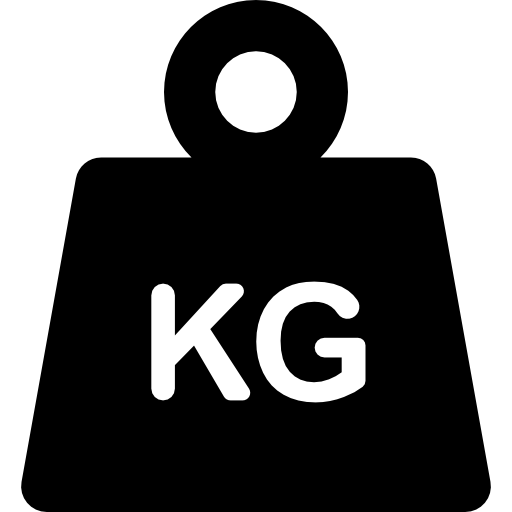
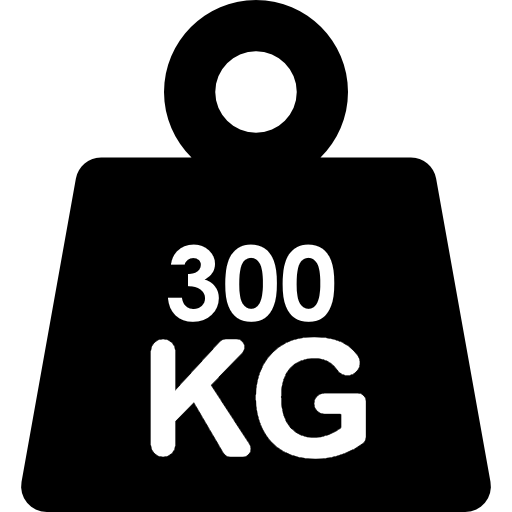
présentation

Changed region(s): [[0.2812, 0.4688, 0.7188, 0.9062]]

diff --git a/ConcreteCS/MainWindow.xaml b/ConcreteCS/MainWindow.xaml
@@ -92,7 +92,7 @@
                                            Text="Rapport de réduction des engrenages" Height="15" Width="200"/>
                                 <TextBox x:Name="GearRatioInput" Grid.Row="3" Grid.Column="1" Width="150" Text="1"
                                            VerticalAlignment="Center" HorizontalAlignment="Left" Height="17"/>
-                                
+
                                 <!-- Bouton pour démarrer la simulation -->
                                 <Button Grid.Row="4" Grid.Column="0" Content="Calculer la force nécessaire"
                                            Click="OnCalculateDemuClick" Margin="0,6,0,5" HorizontalAlignment="Left" Width="146"/>
@@ -164,7 +164,7 @@
                             <TextBox x:Name="AgeInput" Grid.Row="5" Grid.Column="1" Width="150" VerticalAlignment="Center" HorizontalAlignment="Left" Height="18"/>
                         </StackPanel>
 
-                        
+
 
                         <!-- Affichage des résultats -->
                         <StackPanel Grid.Column="1" HorizontalAlignment="Left">
@@ -225,7 +225,7 @@
             <TabItem Header="Animation" Margin="0,0,-2,0" Height="20" VerticalAlignment="Center">
                 <Grid>
                     <!-- Curseur pour ajuster le nombre de poulies -->
-                    <Slider x:Name="SliderPoulies" Minimum="1" Maximum="5" Value="1" TickFrequency="1" IsSnapToTickEnabled="True" HorizontalAlignment="Left" VerticalAlignment="Top" Width="200" Margin="10,10,0,0"/>
+                    <Slider x:Name="SliderPoulies" Minimum="1" Maximum="5" Value="1" TickFrequency="1" IsSnapToTickEnabled="True" HorizontalAlignment="Left" VerticalAlignment="Top" Width="139" Margin="10,10,0,0"/>
                     <Label Content="Nombre de poulies :" HorizontalAlignment="Left" VerticalAlignment="Top" Margin="10,40,0,0"/>
                     <Label x:Name="LabelNbPoulies" Content="1" HorizontalAlignment="Left" VerticalAlignment="Top" Margin="120,40,0,0"/>
 
@@ -234,19 +234,131 @@
                     <Label x:Name="LabelForce" Content="0 N" HorizontalAlignment="Left" VerticalAlignment="Top" Margin="120,80,0,0"/>
 
                     <!-- Canvas pour représenter le système de levage -->
-                    <Canvas x:Name="LevageCanvas" Width="600" Height="400" Background="LightGray" HorizontalAlignment="Right" Margin="0,10,10,0">
+                    <!-- 1 poulie -->
+                    <Grid x:Name="PulleyScene1" Width="430" Background="LightGray" HorizontalAlignment="Left" Margin="154,0,0,135" Visibility="Visible">
                         <!-- Image pour la poulie -->
-                        <Image x:Name="Poulie" Width="60" Height="60" Source="poulie.png" Canvas.Left="270" Canvas.Top="50"/>
+                        <Image x:Name="Poulie11" Width="60" Height="60" Source="poulie.png" Canvas.Left="270" Canvas.Top="50" Margin="10,0,360,201"/>
 
                         <!-- Image pour la charge -->
-                        <Image x:Name="Charge" Width="50" Height="50" Source="charge.png" Canvas.Left="275" Canvas.Top="250"/>
+                        <Image x:Name="Charge1" Width="50" Height="50" Source="charge.png" Canvas.Left="275" Canvas.Top="250" Margin="39,211,341,0"/>
 
                         <!-- Ligne représentant la corde -->
-                        <Line x:Name="Corde" X1="305" Y1="250" X2="305" Y2="50" Stroke="Black" StrokeThickness="3"/>
-                    </Canvas>
+                        <Line x:Name="Corde11" X1="0" Y1="261" X2="0" Y2="30" Stroke="Black" StrokeThickness="3" Margin="16,0,394,0"/>
+                        <Line x:Name="CordeLast1" X1="0" Y1="215" X2="0" Y2="30" Stroke="Black" StrokeThickness="3" Margin="64,0,346,0"/>
+                    </Grid>
+
+                    <!-- 2 poulies -->
+                    <Grid x:Name="PulleyScene2" Width="430" Background="LightGray" HorizontalAlignment="Left" Margin="154,0,0,135" Visibility="Collapsed">
+                        <Image x:Name="Poulie21" Width="60" Height="60" Source="poulie.png" Canvas.Left="270" Canvas.Top="50" Margin="10,0,360,201"/>
+                        <Image x:Name="Poulie22" Width="60" Height="60" Source="poulie.png" Margin="58,154,312,47" RenderTransformOrigin="0.5,0.5">
+                            <Image.RenderTransform>
+                                <TransformGroup>
+                                    <ScaleTransform/>
+                                    <SkewTransform/>
+                                    <RotateTransform Angle="180"/>
+                                    <TranslateTransform/>
+                                </TransformGroup>
+                            </Image.RenderTransform>
+                        </Image>
+                        <Image x:Name="Charge2" Width="50" Height="50" Source="charge.png" Canvas.Left="275" Canvas.Top="250" Margin="63,211,317,0"/>
+
+                        <Line x:Name="Corde2" X1="0" Y1="261" X2="0" Y2="30" Stroke="Black" StrokeThickness="3" Margin="18,0,392,0"/>
+                        <Line x:Name="CordeLast21" X1="0" Y1="180" X2="0" Y2="30" Stroke="Black" StrokeThickness="3" Margin="64,0,346,0"/>
+                        <Line x:Name="CordeLast22" X1="0" Y1="180" X2="0" Y2="0" Stroke="Black" StrokeThickness="3" Margin="113,0,297,0"/>
+                    </Grid>
+
+                    <!-- 3 poulies -->
+                    <Grid x:Name="PulleyScene3" Width="430" Background="LightGray" HorizontalAlignment="Left" Margin="154,0,0,135" Visibility="Collapsed">
+                        <Image x:Name="Poulie31" Width="60" Height="60" Source="poulie.png" Canvas.Left="270" Canvas.Top="50" Margin="10,0,360,201"/>
+                        <Image x:Name="Poulie32" Width="60" Height="60" Source="poulie.png" Margin="56,201,314,0" RenderTransformOrigin="0.5,0.5">
+                            <Image.RenderTransform>
+                                <TransformGroup>
+                                    <ScaleTransform/>
+                                    <SkewTransform/>
+                                    <RotateTransform Angle="180"/>
+                                    <TranslateTransform/>
+                                </TransformGroup>
+                            </Image.RenderTransform>
+                        </Image>
+                        <Image x:Name="Poulie33" Width="60" Height="60" Source="poulie.png" Canvas.Left="270" Canvas.Top="50" Margin="103,0,267,201"/>
+                        <Image x:Name="Charge3" Width="50" Height="50" Source="charge.png" Canvas.Left="275" Canvas.Top="250" Margin="132,211,248,0"/>
+
+                        <Line x:Name="Corde31" X1="0" Y1="261" X2="0" Y2="30" Stroke="Black" StrokeThickness="3" Margin="17,0,393,0"/>
+                        <Line x:Name="Corde32" X1="0" Y1="230" X2="0" Y2="30" Stroke="Black" StrokeThickness="3" Margin="63,0,347,0"/>
+                        <Line x:Name="Corde33" X1="0" Y1="230" X2="0" Y2="30" Stroke="Black" StrokeThickness="3" Margin="110,0,300,0"/>
+                        <Line x:Name="CordeLast3" X1="0" Y1="215" X2="0" Y2="30" Stroke="Black" StrokeThickness="3" Margin="157,0,253,0"/>
+                    </Grid>
+
+                    <!-- 4 poulies -->
+                    <Grid x:Name="PulleyScene4" Width="430" Background="LightGray" HorizontalAlignment="Left" Margin="154,0,0,135" Visibility="Collapsed">
+                        <Image x:Name="Poulie41" Width="60" Height="60" Source="poulie.png" Canvas.Left="270" Canvas.Top="50" Margin="10,0,360,201"/>
+                        <Image x:Name="Poulie42" Width="60" Height="60" Source="poulie.png" Margin="56,201,314,0" RenderTransformOrigin="0.5,0.5">
+                            <Image.RenderTransform>
+                                <TransformGroup>
+                                    <ScaleTransform/>
+                                    <SkewTransform/>
+                                    <RotateTransform Angle="180"/>
+                                    <TranslateTransform/>
+                                </TransformGroup>
+                            </Image.RenderTransform>
+                        </Image>
+                        <Image x:Name="Poulie43" Width="60" Height="60" Source="poulie.png" Canvas.Left="270" Canvas.Top="50" Margin="103,0,267,201"/>
+                        <Image x:Name="Poulie44" Width="60" Height="60" Source="poulie.png" Margin="149,154,221,47" RenderTransformOrigin="0.5,0.5">
+                            <Image.RenderTransform>
+                                <TransformGroup>
+                                    <ScaleTransform/>
+                                    <SkewTransform/>
+                                    <RotateTransform Angle="180"/>
+                                    <TranslateTransform/>
+                                </TransformGroup>
+                            </Image.RenderTransform>
+                        </Image>
+                        <Image x:Name="Charge4" Width="50" Height="50" Source="charge.png" Canvas.Left="275" Canvas.Top="250" Margin="154,211,226,0"/>
+
+                        <Line x:Name="Corde41" X1="0" Y1="261" X2="0" Y2="30" Stroke="Black" StrokeThickness="3" Margin="17,0,393,0"/>
+                        <Line x:Name="Corde42" X1="0" Y1="230" X2="0" Y2="30" Stroke="Black" StrokeThickness="3" Margin="63,0,347,0"/>
+                        <Line x:Name="Corde43" X1="0" Y1="230" X2="0" Y2="30" Stroke="Black" StrokeThickness="3" Margin="110,0,300,0"/>
+                        <Line x:Name="CordeLast41" X1="0" Y1="180" X2="0" Y2="30" Stroke="Black" StrokeThickness="3" Margin="156,0,254,0"/>
+                        <Line x:Name="CordeLast42" X1="0" Y1="180" X2="0" Y2="0" Stroke="Black" StrokeThickness="3" Margin="203,0,207,0"/>
+                    </Grid>
+
+                    <!-- 5 poulies -->
+                    <Grid x:Name="PulleyScene5" Width="430" Background="LightGray" HorizontalAlignment="Left" Margin="154,0,0,135" Visibility="Collapsed">
+                        <Image x:Name="Poulie51" Width="60" Height="60" Source="poulie.png" Canvas.Left="270" Canvas.Top="50" Margin="10,0,360,201"/>
+                        <Image x:Name="Poulie52" Width="60" Height="60" Source="poulie.png" Margin="56,201,314,0" RenderTransformOrigin="0.5,0.5">
+                            <Image.RenderTransform>
+                                <TransformGroup>
+                                    <ScaleTransform/>
+                                    <SkewTransform/>
+                                    <RotateTransform Angle="180"/>
+                                    <TranslateTransform/>
+                                </TransformGroup>
+                            </Image.RenderTransform>
+                        </Image>
+                        <Image x:Name="Poulie53" Width="60" Height="60" Source="poulie.png" Canvas.Left="270" Canvas.Top="50" Margin="103,0,267,201"/>
+                        <Image x:Name="Poulie54" Width="60" Height="60" Source="poulie.png" Margin="149,201,221,0" RenderTransformOrigin="0.5,0.5">
+                            <Image.RenderTransform>
+                                <TransformGroup>
+                                    <ScaleTransform/>
+                                    <SkewTransform/>
+                                    <RotateTransform Angle="180"/>
+                                    <TranslateTransform/>
+                                </TransformGroup>
+                            </Image.RenderTransform>
+                        </Image>
+                        <Image x:Name="Poulie55" Width="60" Height="60" Source="poulie.png" Canvas.Left="270" Canvas.Top="50" Margin="196,0,174,201"/>
+                        <Image x:Name="Charge5" Width="50" Height="50" Source="charge.png" Canvas.Left="275" Canvas.Top="250" Margin="225,211,155,0"/>
+
+                        <Line x:Name="Corde51" X1="0" Y1="261" X2="0" Y2="30" Stroke="Black" StrokeThickness="3" Margin="17,0,393,0"/>
+                        <Line x:Name="Corde52" X1="0" Y1="230" X2="0" Y2="30" Stroke="Black" StrokeThickness="3" Margin="63,0,347,0"/>
+                        <Line x:Name="Corde53" X1="0" Y1="230" X2="0" Y2="30" Stroke="Black" StrokeThickness="3" Margin="110,0,300,0"/>
+                        <Line x:Name="Corde54" X1="0" Y1="230" X2="0" Y2="30" Stroke="Black" StrokeThickness="3" Margin="156,0,254,0"/>
+                        <Line x:Name="Corde55" X1="0" Y1="230" X2="0" Y2="30" Stroke="Black" StrokeThickness="3" Margin="203,0,207,0"/>
+                        <Line x:Name="CordeLast5" X1="0" Y1="215" X2="0" Y2="30" Stroke="Black" StrokeThickness="3" Margin="250,0,160,0"/>
+                    </Grid>
 
                     <!-- Bouton pour démarrer la simulation -->
-                    <Button Content="Simuler" HorizontalAlignment="Left" VerticalAlignment="Top" Margin="10,120,0,0" Width="100" Click="Simuler_Click"/>
+                    <Button Content="Simuler" HorizontalAlignment="Left" VerticalAlignment="Top" Margin="28,111,0,0" Width="100" Click="Simuler_Click"/>
                 </Grid>
             </TabItem>
         </TabControl>

diff --git a/ConcreteCS/MainWindow.xaml.cs b/ConcreteCS/MainWindow.xaml.cs
@@ -194,7 +194,7 @@ namespace ConcreteCS
                         }
                     }
 
-                   else if (genre == "Femme")
+                    else if (genre == "Femme")
                     {
                         if (age >= 18 && age <= 45 && forceNecessaireKg > 13)
                         {
@@ -205,11 +205,8 @@ namespace ConcreteCS
                             ShowAlert();
                         }
                     }
-
-
                 }
 
-               
                 else 
                 {
                     if(ageOuvrier >= 26 && ageOuvrier < 50 && forceNecessaireKg > 80)
@@ -307,101 +304,76 @@ namespace ConcreteCS
             AfficherPoulies(nbPoulies);
         }
 
-        // Affiche le bon nombre de poulies en fonction du slider
-        private void AfficherPoulies(int nbPoulies) {
-            // Nettoie le canvas en conservant la corde et la charge
-            LevageCanvas.Children.Clear();
-            LevageCanvas.Children.Add(Corde);
-            LevageCanvas.Children.Add(Charge);
-
-            double poulieY = 50; // Position verticale des poulies
-            double espacement = 100; // Espacement entre les poulies
-
-            // Ajoute dynamiquement le nombre de poulies sélectionné
-            for (int i = 0; i < nbPoulies; i++) {
-                Image poulie = new Image {
-                    Width = 60,
-                    Height = 60,
-                    Source = new BitmapImage(new Uri("poulie.png", UriKind.Relative))
-                };
-
-                // Positionne les poulies horizontalement
-                double poulieX = 100 + (i * espacement);
-                Canvas.SetLeft(poulie, poulieX);
-                Canvas.SetTop(poulie, poulieY);
-                LevageCanvas.Children.Add(poulie);
-
-                // Dessine des lignes entre les poulies
-                if (i > 0) // S'il y a déjà une poulie précédente
-                {
-                    Line ligne = new Line {
-                        Stroke = Brushes.Black,
-                        StrokeThickness = 2,
-                        X1 = poulieX - espacement + 30, // X de la poulie précédente (ajout d'un décalage)
-                        Y1 = poulieY + 30, // Y fixe au bas de la poulie
-                        X2 = poulieX + 30, // X de la poulie actuelle (ajout d'un décalage)
-                        Y2 = poulieY + 30 // Y fixe au bas de la poulie
-                    };
-
-                    LevageCanvas.Children.Add(ligne);
-                }
-            }
-
-            // Ajouter une ligne pour relier la dernière poulie à la corde
-            if (nbPoulies > 0) {
-                double lastPulleyX = 100 + ((nbPoulies - 1) * espacement);
-                Line lastLine = new Line {
-                    Stroke = Brushes.Black,
-                    StrokeThickness = 2,
-                    X1 = lastPulleyX + 30, // Position horizontale de la dernière poulie
-                    Y1 = poulieY + 30, // Position verticale de la dernière poulie
-                    X2 = lastPulleyX + 30, // Position horizontale de la corde
-                    Y2 = 100 // Hauteur à laquelle la corde est attachée (ajuste si nécessaire)
-                };
-                LevageCanvas.Children.Add(lastLine);
-
-                // Aligner la charge avec la dernière poulie
-                Canvas.SetLeft(Charge, lastPulleyX); // Aligne horizontalement avec la dernière poulie
-                Canvas.SetTop(Charge, poulieY + 30 + 10); // Position verticale juste en dessous de la dernière poulie (ajoute un petit décalage)
-
-                // Ajouter une ligne pour relier la charge à la corde
-                Line chargeToPulleyLine = new Line {
-                    Stroke = Brushes.Black,
-                    StrokeThickness = 2,
-                    X1 = lastPulleyX + 30, // Position horizontale de la dernière poulie
-                    Y1 = poulieY + 30, // Position verticale de la dernière poulie
-                    X2 = lastPulleyX + 30, // Aligne horizontalement avec la charge
-                    Y2 = Canvas.GetTop(Charge) // Hauteur de la charge
-                };
-                LevageCanvas.Children.Add(chargeToPulleyLine);
-            }
-        }
-
-
         // Animation de la charge et de la corde
         private void Simuler_Click(object sender, RoutedEventArgs e) {
             int nbPoulies = (int)SliderPoulies.Value;
             double tempsLevage = nbPoulies * 1.0;  // Ajuste le temps de levage en fonction du nombre de poulies
 
             // Créer une animation pour déplacer la charge vers le haut
-            DoubleAnimation animationCharge = new DoubleAnimation {
+            DoubleAnimation animationChargeImpair = new DoubleAnimation {
                 From = 250,
                 To = 50,
                 Duration = TimeSpan.FromSeconds(tempsLevage)
             };
 
             // Créer une animation pour déplacer la corde en synchronisation avec la charge
-            DoubleAnimation animationCorde = new DoubleAnimation {
+            DoubleAnimation animationCordeImpair = new DoubleAnimation {
                 From = 250,
                 To = 50,
                 Duration = TimeSpan.FromSeconds(tempsLevage)
             };
 
             // Appliquer les animations
-            Charge.BeginAnimation(Canvas.TopProperty, animationCharge);
-            Corde.BeginAnimation(Line.Y1Property, animationCorde);
+            switch (nbPoulies)
+            {
+                case 1:
+                    Charge1.BeginAnimation(Canvas.TopProperty, animationCharge);
+                    CordeLast1.BeginAnimation(Line.Y1Property, animationCorde);
+                    break;
+                case 2:
+
+                    break;
+                case 3:
+
+                    break;
+                case 4:
+
+                    break;
+                case 5:
+
+                    break;
+            }
+        }
+
+        private void AfficherPoulies(int nombreDePoulies)
+        {
+            PulleyScene1.Visibility = Visibility.Hidden;
+            PulleyScene2.Visibility = Visibility.Hidden;
+            PulleyScene3.Visibility = Visibility.Hidden;
+            PulleyScene4.Visibility = Visibility.Hidden;
+            PulleyScene5.Visibility = Visibility.Hidden;
+
+            switch (nombreDePoulies)
+            {
+                case 1:
+                    PulleyScene1.Visibility = Visibility.Visible;
+                    break;
+                case 2:
+                    PulleyScene2.Visibility = Visibility.Visible;
+                    break;
+                case 3:
+                    PulleyScene3.Visibility = Visibility.Visible;
+                    break;
+                case 4:
+                    PulleyScene4.Visibility = Visibility.Visible;
+                    break;
+                case 5:
+                    PulleyScene5.Visibility = Visibility.Visible;
+                    break;
+            }
         }
     }
+
     public class LevageSysteme {
         private double masse = 300; // Masse de la charge en kg
         private double g = 9.81; // Accélération gravitationnelle en m/s^2
